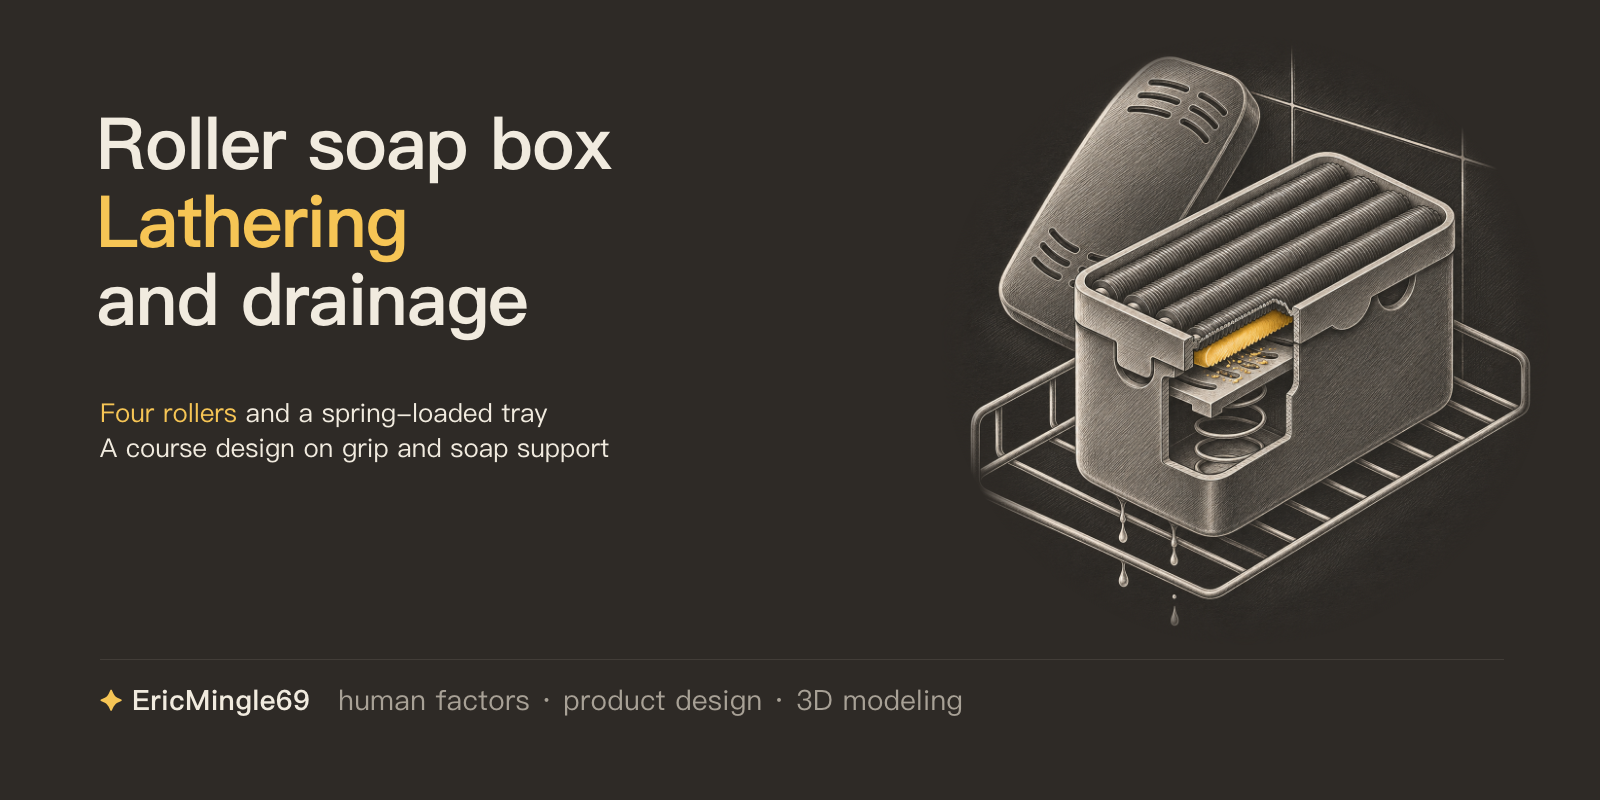
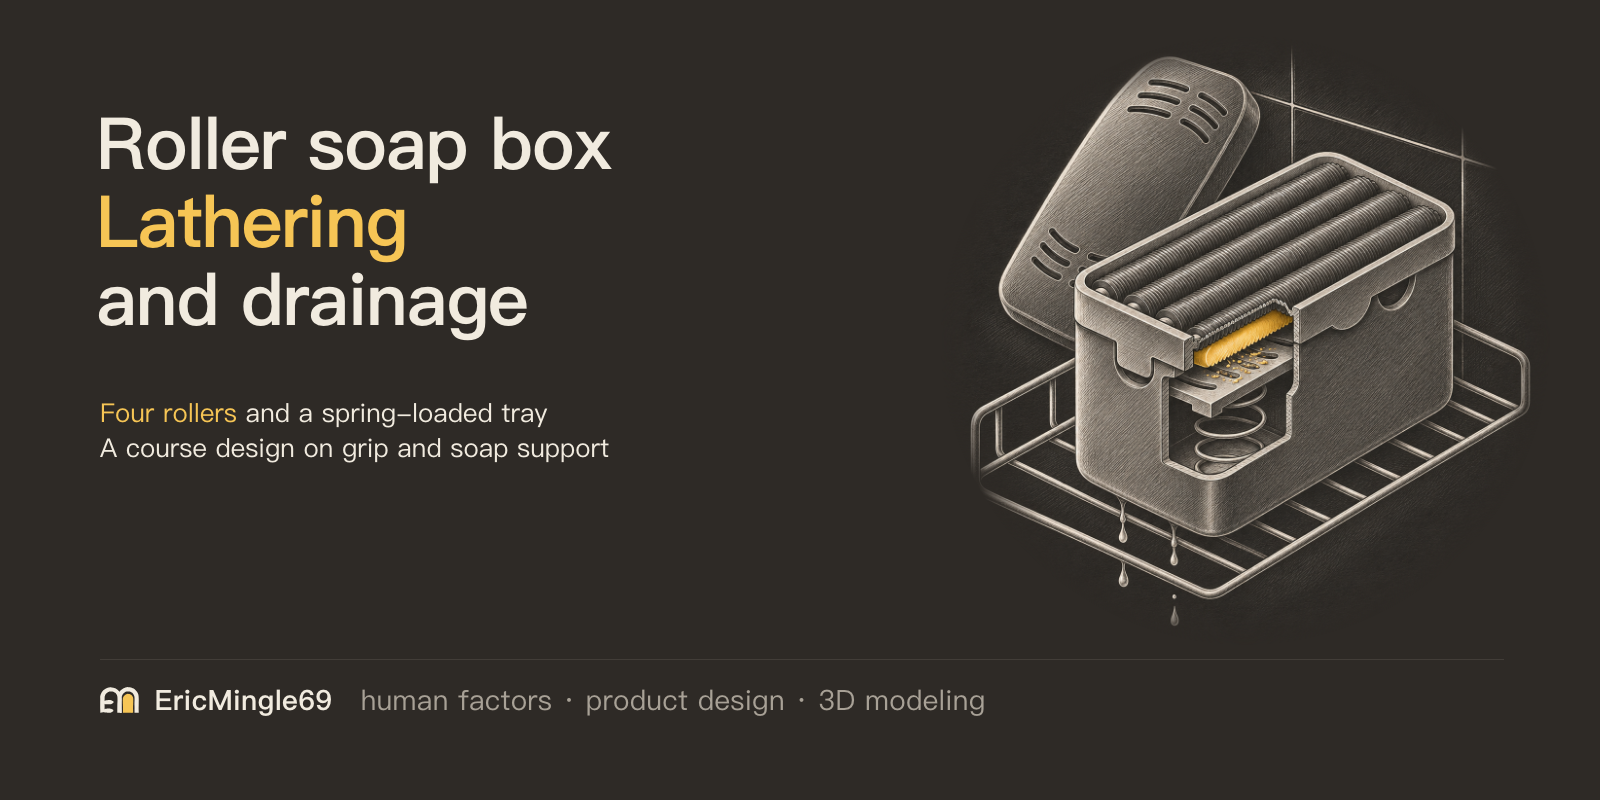
Docs: EM signature and covers

Changed region(s): [[0.0625, 0.8438, 0.625, 0.9062]]

diff --git a/PERSONAL-NOTICE.md b/PERSONAL-NOTICE.md
@@ -1,7 +1,7 @@
-# ✦ EricMingle69 · 个人维护与授权说明
+# <picture><source media="(prefers-color-scheme: dark)" srcset="readme-assets/em-logo-dark.svg"><img src="readme-assets/em-logo-light.svg" alt="EM" height="12"></picture> EricMingle69 · 个人维护与授权说明
 
 **GitHub 维护账户：** [Ming-Sir-69](https://github.com/Ming-Sir-69)  
-**文档身份标志：** ✦ EricMingle69
+**文档身份标志：** <picture><source media="(prefers-color-scheme: dark)" srcset="readme-assets/em-logo-dark.svg"><img src="readme-assets/em-logo-light.svg" alt="EM" height="12"></picture> EricMingle69
 
 ## 署名的含义
 
@@ -13,19 +13,19 @@
 
 仓库尚无明确的根源码许可。本轮新撰文案与页眉及封面视觉的许可单列在 [个人文档许可](readme-assets/PERSONAL-DOCUMENTATION-LICENSE.md)，仅覆盖其原创表达；源码、旧资料、数据和第三方原文不在该新增许可范围内。
 
-本轮文档文件清单：`README.md`、`README.en.md`、`PERSONAL-NOTICE.md`, `readme-assets/cover-zh-light.png`, `readme-assets/cover-zh-dark.png`, `readme-assets/cover-en-light.png`, `readme-assets/cover-en-dark.png`。许可涉及这些文件中的原创新增表达，不覆盖其中保留的第三方原文。
+本轮文档文件清单：`README.md`、`README.en.md`、`PERSONAL-NOTICE.md`, `readme-assets/cover-zh-light.png`, `readme-assets/cover-zh-dark.png`, `readme-assets/cover-en-light.png`, `readme-assets/cover-en-dark.png`, `readme-assets/em-logo-light.svg`, `readme-assets/em-logo-dark.svg`。许可涉及这些文件中的原创新增表达，不覆盖其中保留的第三方原文。
 
 使用、修改或再分发具体内容时，请保留适用的作者与许可说明。设备、账号、付费服务、工作资料或个人数据的访问权限由其实际管理者授予，文档署名不替代这些权限。
 
 ## Personal identity and permissions
 
-The GitHub maintainer is [Ming-Sir-69](https://github.com/Ming-Sir-69). **✦ EricMingle69** identifies the maintenance of this repository's documentation, bilingual navigation and header artwork. Third-party code, authors, trademarks and materials keep their original attribution. This mark does not claim their ownership or grant endorsement, account, device or service access.
+The GitHub maintainer is [Ming-Sir-69](https://github.com/Ming-Sir-69). **<picture><source media="(prefers-color-scheme: dark)" srcset="readme-assets/em-logo-dark.svg"><img src="readme-assets/em-logo-light.svg" alt="EM" height="12"></picture> EricMingle69** identifies the maintenance of this repository's documentation, bilingual navigation and header artwork. Third-party code, authors, trademarks and materials keep their original attribution. This mark does not claim their ownership or grant endorsement, account, device or service access.
 
 Where an existing license already names this maintainer, EricMingle69 is the personal documentation alias of Eric Mingle / Ming-Sir-69, not a separate third-party copyright holder.
 
 There is no established root source-code license. The [personal documentation license](readme-assets/PERSONAL-DOCUMENTATION-LICENSE.md) covers only the original wording, header artwork and cover artwork created for this documentation refresh. It does not grant new rights over source code, existing materials, data or third-party excerpts.
 
-Documentation files in this refresh: `README.md`、`README.en.md`、`PERSONAL-NOTICE.md`, `readme-assets/cover-zh-light.png`, `readme-assets/cover-zh-dark.png`, `readme-assets/cover-en-light.png`, `readme-assets/cover-en-dark.png`. Any documentation license applies to their original new expression, not retained third-party text.
+Documentation files in this refresh: `README.md`、`README.en.md`、`PERSONAL-NOTICE.md`, `readme-assets/cover-zh-light.png`, `readme-assets/cover-zh-dark.png`, `readme-assets/cover-en-light.png`, `readme-assets/cover-en-dark.png`, `readme-assets/em-logo-light.svg`, `readme-assets/em-logo-dark.svg`. Any documentation license applies to their original new expression, not retained third-party text.
 
 When using, adapting or redistributing content, retain its applicable author and license notices. Access to devices, accounts, paid services, work materials or personal data requires permission from their actual administrator.
 

diff --git a/readme-assets/PERSONAL-DOCUMENTATION-LICENSE.md b/readme-assets/PERSONAL-DOCUMENTATION-LICENSE.md
@@ -1,4 +1,4 @@
-# Personal documentation license · ✦ EricMingle69
+# Personal documentation license · <picture><source media="(prefers-color-scheme: dark)" srcset="em-logo-dark.svg"><img src="em-logo-light.svg" alt="EM" height="12"></picture> EricMingle69
 
 ## Scope / 适用范围
 
@@ -6,7 +6,7 @@ This license applies only to the original explanatory wording, header artwork an
 
 本许可仅适用于这次文档整理中新撰的原创说明与页眉及封面视觉。它不覆盖既有源码、数据、资料、引用文本、第三方作品或商标；这些内容的既有权利与组成部分许可继续适用。个人署名不表示背书，也不授予设备、账号或服务访问权限。
 
-Files / 文件：`README.md`, `README.en.md`, `PERSONAL-NOTICE.md`, `readme-assets/cover-zh-light.png`, `readme-assets/cover-zh-dark.png`, `readme-assets/cover-en-light.png`, `readme-assets/cover-en-dark.png`
+Files / 文件：`README.md`, `README.en.md`, `PERSONAL-NOTICE.md`, `readme-assets/cover-zh-light.png`, `readme-assets/cover-zh-dark.png`, `readme-assets/cover-en-light.png`, `readme-assets/cover-en-dark.png`, `readme-assets/em-logo-light.svg`, `readme-assets/em-logo-dark.svg`
 
 ## License terms
 

diff --git a/README.en.md b/README.en.md
@@ -97,5 +97,5 @@ The following paper provides context for a related mechanism; it is not evidence
 
 ---
 
-Documentation maintained by **✦ EricMingle69** · [Ming-Sir-69](https://github.com/Ming-Sir-69)  
+Maintained by <picture><source media="(prefers-color-scheme: dark)" srcset="readme-assets/em-logo-dark.svg"><img src="readme-assets/em-logo-light.svg" alt="EM" height="13"></picture> <b>EricMingle69</b> · <a href="https://github.com/Ming-Sir-69">Ming-Sir-69</a><br>
 Original documentation and cover artwork use the [documentation MIT license](readme-assets/PERSONAL-DOCUMENTATION-LICENSE.md); the original models, course PDF and model projections are outside that added license.

diff --git a/README.md b/README.md
@@ -97,5 +97,5 @@
 
 ---
 
-文档维护：**✦ EricMingle69** · [Ming-Sir-69](https://github.com/Ming-Sir-69)  
+文档维护：<picture><source media="(prefers-color-scheme: dark)" srcset="readme-assets/em-logo-dark.svg"><img src="readme-assets/em-logo-light.svg" alt="EM" height="13"></picture> <b>EricMingle69</b> · <a href="https://github.com/Ming-Sir-69">Ming-Sir-69</a><br>
 原创文档与封面视觉适用[文档 MIT 许可](readme-assets/PERSONAL-DOCUMENTATION-LICENSE.md)；原模型、课程 PDF 与模型投影不在该新增许可范围内。
